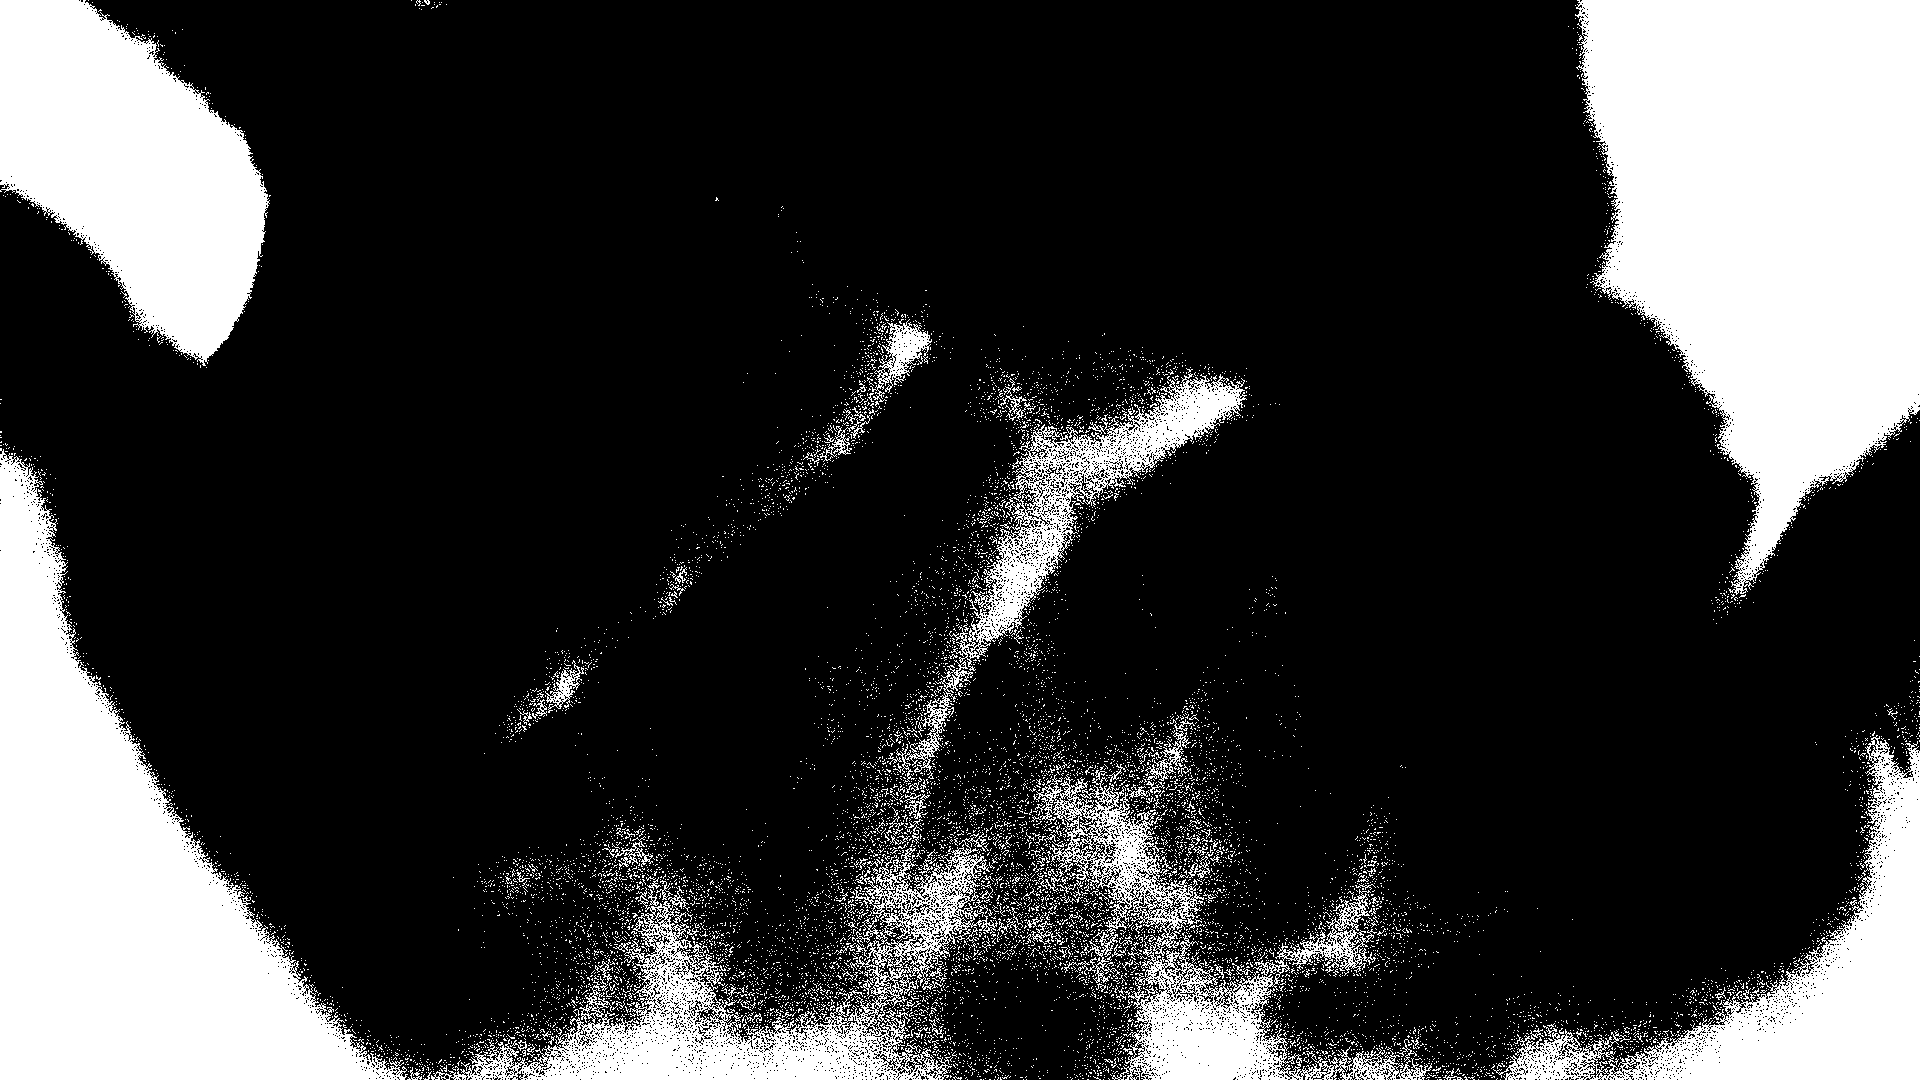
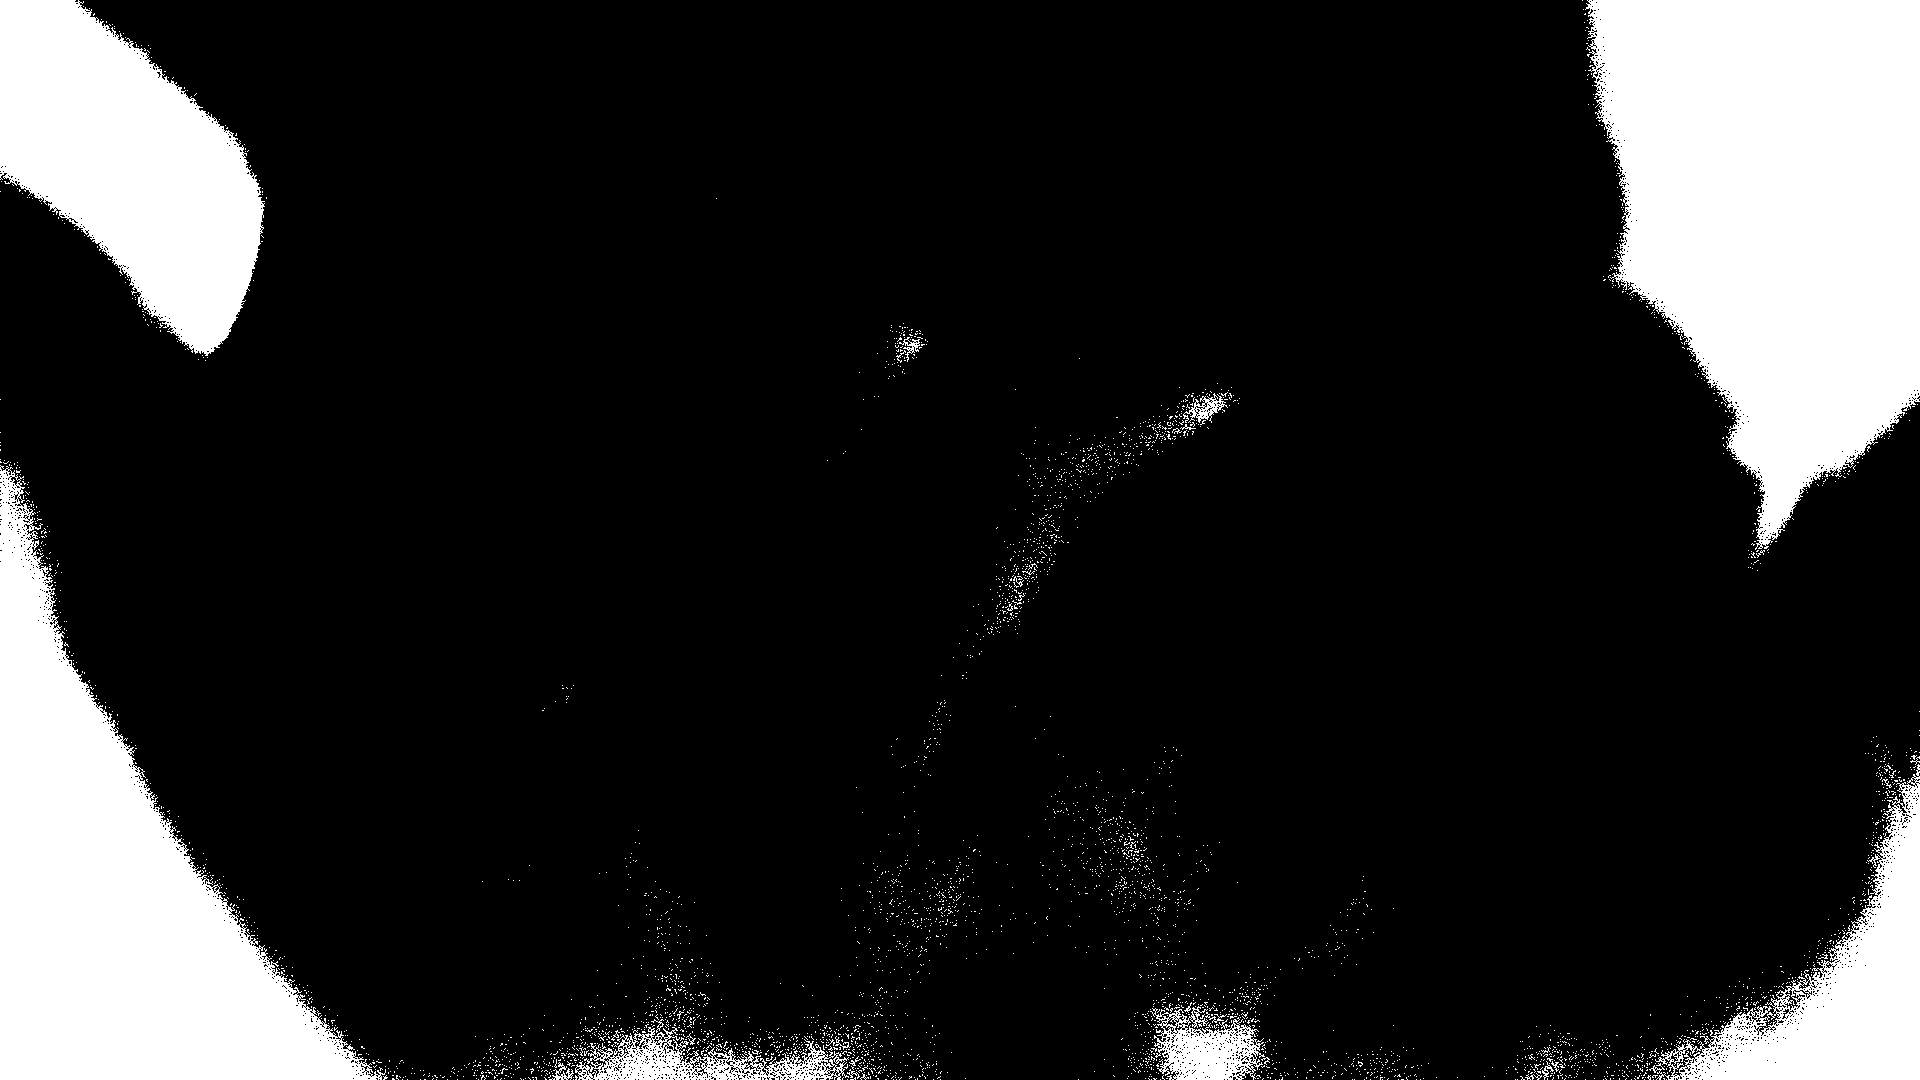
17:45

diff --git a/Ocvpydeneme.py b/Ocvpydeneme.py
@@ -17,5 +17,5 @@ img=cv2.imread('denemedamar.jpg')
 #cl1=clahe.apply(img)
 #cv2.imwrite('clahevein.png',cl1)
 bnw=cv2.imread('clahevein.png',cv2.IMREAD_GRAYSCALE)
-(thresh,imbw)=cv2.threshold(bnw,60,255,cv2.THRESH_BINARY_INV)
+(thresh,imbw)=cv2.threshold(bnw,45,255,cv2.THRESH_BINARY_INV)
 cv2.imwrite('bwdeneme.png',imbw)
